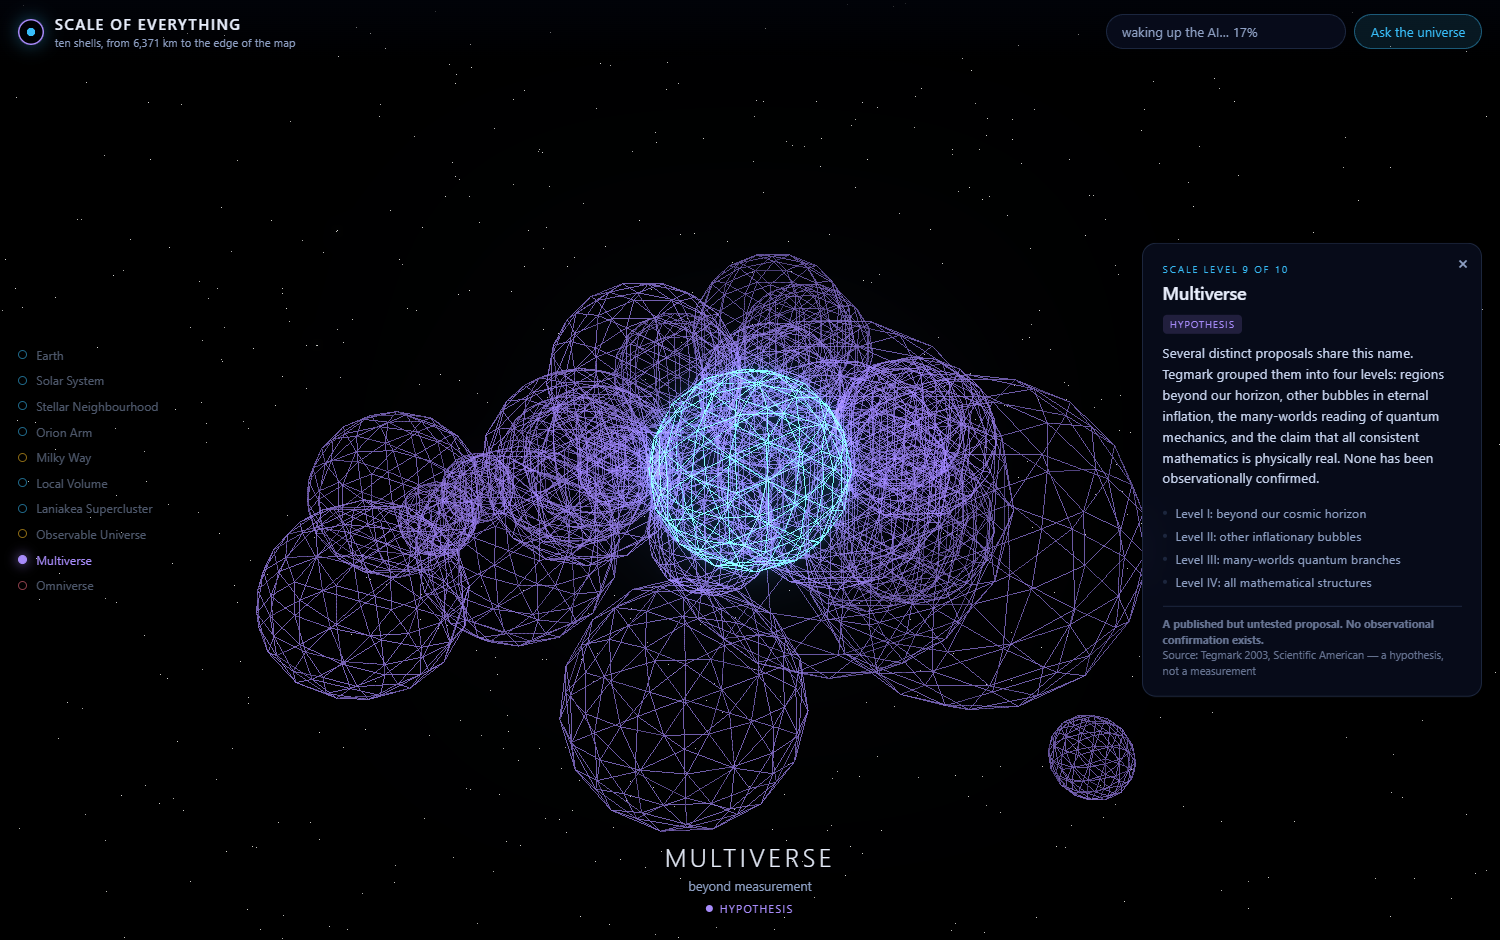
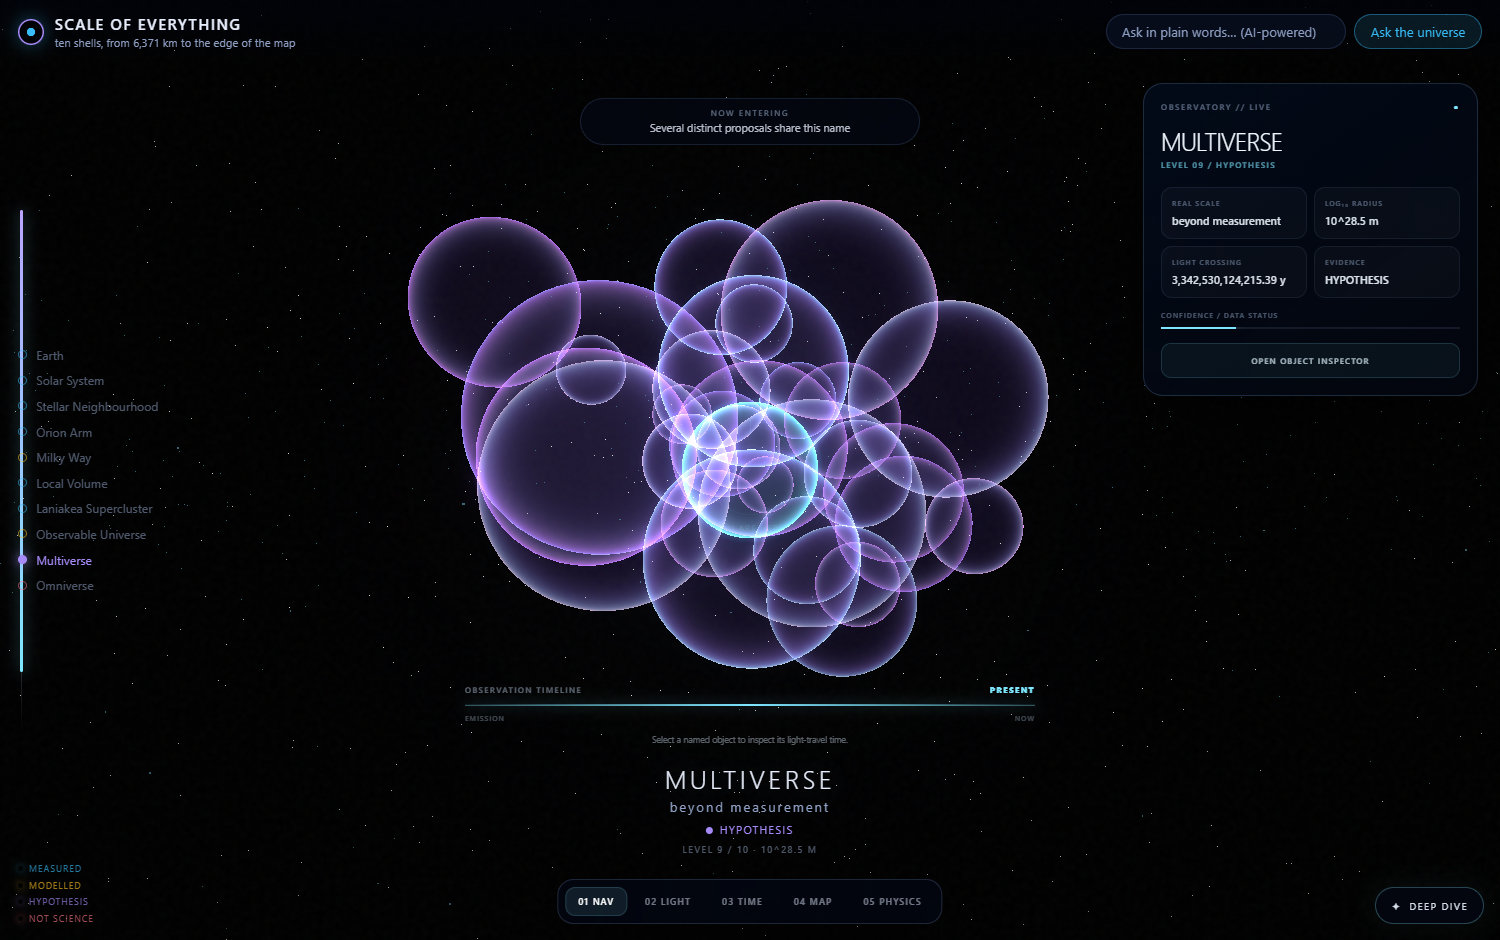
Multiverse rung becomes a foam of soap-film bubbles
Wireframe icosahedra read as scattered debris, not as bubble universes.
Eternal inflation describes a foam that nucleates, inflates and touches, so the
shell is now a foam: 30 thin films with a Fresnel rim, which is why a real
bubble is nearly invisible face on and bright at a grazing angle, plus a colour
walk with incidence standing in for thin-film interference. Placement rejects
positions that do not touch a bubble already placed or that sit half inside one,
so they meet the way soap cells do rather than floating apart.

Still honestly speculative: nothing solid, no surface, no detail that could be
mistaken for an image of anything, hypothesis violet kept, ours lit cyan.

A ShaderMaterial ignores material.opacity, so the level crossfade drives the
film's own uFade uniform instead of going through fadeable().

New tools/verify_shells.py, 7 assertions: the films are not wireframes, exactly
one bubble is ours, the tints are right, at least 80 percent of bubbles touch a
neighbour (30/30 in practice), the crossfade reaches the uniform, the omniverse
stays an empty frame, no console errors. Layout regression 0 failures.

docs/multiverse.png regenerated and docs/earth.png added.

diff --git a/src/stages.js b/src/stages.js
@@ -276,40 +276,122 @@ export function createMilkyWay(unitRadius) {
 
 // ------------------------------------------------- speculative shells
 
-// Rendered deliberately unlike every measured level: wireframe, cool violet,
-// nothing solid. A viewer should be able to tell at a glance that the ground
-// has changed from observation to proposal.
+// Eternal inflation describes a foam of bubbles that nucleate, inflate and
+// touch, so this shell is a foam: thin soap-film shells, nothing solid, no
+// surface, no detail that could be mistaken for an image of anything. It keeps
+// the hypothesis violet and ours is the one lit cyan. A film you can see
+// straight through is still plainly not a photograph, but a bubble universe
+// should at least look like a bubble.
+const BUBBLE_VERT = [
+  'varying vec3 vN;',
+  'varying vec3 vV;',
+  'void main() {',
+  '  vec4 wp = modelMatrix * vec4(position, 1.0);',
+  '  vN = normalize(mat3(modelMatrix) * normal);',
+  '  vV = normalize(cameraPosition - wp.xyz);',
+  '  gl_Position = projectionMatrix * viewMatrix * wp;',
+  '}',
+].join('\n');
+
+// The rim term is Fresnel: a soap film is nearly invisible face on and bright
+// at a grazing angle, which is what makes a bubble read as a bubble. The colour
+// walk with incidence is thin-film interference, the reason a real bubble is
+// iridescent.
+const BUBBLE_FRAG = [
+  'uniform vec3 uTint;',
+  'uniform float uBase;',
+  'uniform float uFade;',
+  'uniform float uTime;',
+  'uniform float uSeed;',
+  'varying vec3 vN;',
+  'varying vec3 vV;',
+  'void main() {',
+  '  float f = 1.0 - abs(dot(normalize(vN), normalize(vV)));',
+  '  float rim = pow(f, 3.0);',
+  '  float p = f * 6.2831 + uTime * 0.22 + uSeed;',
+  '  vec3 film = 0.5 + 0.5 * cos(p + vec3(0.0, 2.094, 4.188));',
+  '  vec3 col = mix(uTint, film, 0.4 * rim);',
+  '  float a = (0.03 + rim * 0.9) * uBase * uFade;',
+  '  gl_FragColor = vec4(col * (0.3 + rim), a);',
+  '}',
+].join('\n');
+
+// Bubbles in a foam touch. A position is drawn until it lands in contact with a
+// bubble already placed without being swallowed inside it, so the shell reads as
+// a foam rather than as scattered marbles.
+function foamPositions(R, radii) {
+  const out = [new THREE.Vector3(0, 0, 0)];
+  for (let i = 1; i < radii.length; i++) {
+    let best = null;
+    for (let attempt = 0; attempt < 240; attempt++) {
+      const u = Math.random() * 2 - 1;
+      const phi = Math.random() * Math.PI * 2;
+      const rr = R * (0.2 + Math.random() * 0.7);
+      const sxz = Math.sqrt(1 - u * u);
+      const cand = new THREE.Vector3(rr * sxz * Math.cos(phi), rr * u * 0.55,
+                                     rr * sxz * Math.sin(phi));
+      let touches = false, buried = false;
+      for (let j = 0; j < out.length; j++) {
+        const sum = radii[i] + radii[j];
+        const d = cand.distanceTo(out[j]);
+        if (d < sum) touches = true;
+        if (d < sum * 0.5) buried = true;
+      }
+      if (buried) continue;
+      if (touches) { best = cand; break; }
+      if (!best) best = cand;
+    }
+    out.push(best || new THREE.Vector3(R * 0.5, 0, 0));
+  }
+  return out;
+}
+
 export function createMultiverse(unitRadius) {
   const group = new THREE.Group();
-  const mats = [];
   const R = unitRadius;
 
+  const N = 30;
+  const radii = [];
+  for (let i = 0; i < N; i++) {
+    radii.push(R * (i === 0 ? 0.13 : 0.06 + Math.random() * 0.15));
+  }
+  const pos = foamPositions(R, radii);
+
   const bubbles = [];
-  for (let i = 0; i < 26; i++) {
-    const r = R * (0.06 + Math.random() * 0.15);
-    const geo = new THREE.IcosahedronGeometry(r, 2);
-    const mat = new THREE.MeshBasicMaterial({
-      color: i === 0 ? 0x7ef0ff : 0xa78bfa,
-      wireframe: true, transparent: true,
-      opacity: i === 0 ? 0.55 : 0.14 + Math.random() * 0.13,
+  const films = [];
+  for (let i = 0; i < N; i++) {
+    const mat = new THREE.ShaderMaterial({
+      vertexShader: BUBBLE_VERT,
+      fragmentShader: BUBBLE_FRAG,
+      uniforms: {
+        uTint: { value: new THREE.Color(i === 0 ? 0x7ef0ff : 0xa78bfa) },
+        uBase: { value: i === 0 ? 1.0 : 0.42 + Math.random() * 0.34 },
+        uFade: { value: 1 },
+        uTime: { value: 0 },
+        uSeed: { value: Math.random() * 6.2831 },
+      },
+      transparent: true,
+      depthWrite: false,
+      side: THREE.DoubleSide,
+      blending: THREE.AdditiveBlending,
     });
-    const m = new THREE.Mesh(geo, mat);
-    const u = Math.random() * 2 - 1;
-    const phi = Math.random() * Math.PI * 2;
-    const rr = R * (0.25 + Math.random() * 0.72);
-    const s = Math.sqrt(1 - u * u);
-    if (i === 0) m.position.set(0, 0, 0);
-    else m.position.set(rr * s * Math.cos(phi), rr * u * 0.5, rr * s * Math.sin(phi));
+    const m = new THREE.Mesh(new THREE.SphereGeometry(radii[i], 48, 32), mat);
+    m.position.copy(pos[i]);
     m.userData = { kind: i === 0 ? 'our-universe' : 'bubble', index: i };
     group.add(m);
-    mats.push(mat);
-    bubbles.push({ mesh: m, spin: (Math.random() - 0.5) * 0.1 });
+    films.push(mat);
+    bubbles.push({ mesh: m, spin: (Math.random() - 0.5) * 0.06 });
   }
 
   return {
     group, bubbles,
-    update(t, dt) { bubbles.forEach((b) => { b.mesh.rotation.y += dt * b.spin; }); },
-    setOpacity: fadeable(mats),
+    update(t, dt) {
+      films.forEach((m) => { m.uniforms.uTime.value = t; });
+      bubbles.forEach((b) => { b.mesh.rotation.y += dt * b.spin; });
+    },
+    // A ShaderMaterial ignores material.opacity, so the level crossfade drives
+    // the film's own uniform instead of going through fadeable().
+    setOpacity(a) { films.forEach((m) => { m.uniforms.uFade.value = a; }); },
   };
 }
 

diff --git a/tools/verify_shells.py b/tools/verify_shells.py
@@ -1,0 +1,88 @@
+"""Checks the two speculative shells: the multiverse is a foam of soap films in
+contact rather than scattered wireframes, ours is the one distinct bubble, the
+crossfade reaches zero, and the omniverse stays an empty dashed box."""
+import asyncio, os
+from playwright.async_api import async_playwright
+
+CHROME = os.environ.get("SOE_CHROME") or None
+ARGS = ["--use-gl=angle", "--use-angle=swiftshader", "--enable-unsafe-swiftshader", "--no-sandbox"]
+URL = "http://127.0.0.1:8080/"
+fails = []
+
+
+def ck(name, cond, extra=""):
+    print(("PASS " if cond else "FAIL ") + name + ("  " + str(extra) if extra else ""))
+    if not cond:
+        fails.append(name)
+
+
+async def main():
+    async with async_playwright() as pw:
+        b = await pw.chromium.launch(executable_path=CHROME, args=ARGS)
+        pg = await b.new_page(viewport={"width": 1440, "height": 900})
+        errs = []
+        pg.on("console", lambda m: errs.append(m.text) if m.type == "error" else None)
+        pg.on("pageerror", lambda e: errs.append(str(e)))
+        await pg.goto(URL, wait_until="load")
+        await pg.wait_for_function("window.SOE && window.SOE.shells", timeout=90000)
+        await pg.evaluate("window.SOE.goTo(8)")
+        await pg.wait_for_timeout(1200)
+
+        m = await pg.evaluate("""() => {
+          const s = window.SOE.shells[8];
+          const films = s.bubbles.map(x => x.mesh);
+          const kinds = films.map(x => x.userData.kind);
+          // A bubble counts as in contact when a neighbour's surface is within
+          // the sum of the radii but not half inside it.
+          let touching = 0;
+          for (let i = 0; i < films.length; i++) {
+            const ri = films[i].geometry.parameters.radius;
+            let hit = false;
+            for (let j = 0; j < films.length; j++) {
+              if (i === j) continue;
+              const rj = films[j].geometry.parameters.radius;
+              const d = films[i].position.distanceTo(films[j].position);
+              if (d < ri + rj && d >= (ri + rj) * 0.5) hit = true;
+            }
+            if (hit) touching++;
+          }
+          return {
+            n: films.length,
+            shaders: films.filter(x => x.material.type === 'ShaderMaterial').length,
+            wireframe: films.filter(x => x.material.wireframe).length,
+            ours: kinds.filter(k => k === 'our-universe').length,
+            touching,
+            tints: films.map(x => x.material.uniforms.uTint.value.getHexString()),
+          };
+        }""")
+        ck("multiverse is a foam of soap films, not wireframes",
+           m["shaders"] == m["n"] and m["wireframe"] == 0, m)
+        ck("exactly one bubble is ours", m["ours"] == 1)
+        ck("ours is the cyan one, the rest hypothesis violet",
+           m["tints"][0] == "7ef0ff" and set(m["tints"][1:]) == {"a78bfa"})
+        ck("most bubbles touch a neighbour, as a foam does",
+           m["touching"] >= m["n"] * 0.8, str(m["touching"]) + "/" + str(m["n"]))
+
+        # The films carry their own opacity uniform; if the crossfade did not
+        # reach it the shell would never leave the screen.
+        await pg.evaluate("window.SOE.shells[8].setOpacity(0)")
+        faded = await pg.evaluate(
+            "window.SOE.shells[8].bubbles.every(b => b.mesh.material.uniforms.uFade.value === 0)")
+        ck("the level crossfade drives the film uniform", faded)
+
+        await pg.evaluate("window.SOE.goTo(9)")
+        await pg.wait_for_timeout(1200)
+        omni = await pg.evaluate("""() => {
+          const s = window.SOE.shells[9]; let meshes = 0, lines = 0;
+          s.group.traverse(o => { if (o.isMesh) meshes++; else if (o.isLine || o.isLineSegments) lines++; });
+          return {meshes, lines};
+        }""")
+        ck("omniverse stays an empty frame, nothing solid inside",
+           omni["meshes"] == 0 and omni["lines"] >= 6, omni)
+        ck("no console errors", not errs, errs)
+        await b.close()
+    print("FAILURES:", len(fails), fails)
+    raise SystemExit(1 if fails else 0)
+
+
+asyncio.run(main())

diff --git a/README.md b/README.md
@@ -45,10 +45,18 @@ Virgo concentration in gold at centre, filaments radiating outward.
 ![Laniakea Supercluster](docs/laniakea.png)
 
 Level 9 — the Multiverse, drawn in a deliberately different visual language.
-Wireframe and violet, with our own universe in cyan. You can tell at a glance
-that the ground has changed from observation to proposal.
+Eternal inflation describes a foam of bubbles that nucleate, inflate and touch,
+so this shell is a foam: thin soap films in the hypothesis violet with our own
+universe lit cyan. Nothing solid, no surface, no detail that could be mistaken
+for an image of anything. You can tell at a glance that the ground has changed
+from observation to proposal.
 
 ![Multiverse](docs/multiverse.png)
+
+Level 1 — Earth, wearing the same measured surface, cloud and night-lights
+maps as the planet one rung out, with the Karman line to scale.
+
+![Earth](docs/earth.png)
 
 ## The ten shells
 
@@ -62,7 +70,7 @@ that the ground has changed from observation to proposal.
 | 6 | Local Group | 1.5 Mpc | measured | real galaxies |
 | 7 | Laniakea Supercluster | 80 Mpc | measured | real galaxies |
 | 8 | Observable Universe | 520 Mpc surveyed | **modelled** beyond survey depth | 17,669 real galaxies |
-| 9 | Multiverse | beyond measurement | **hypothesis** | schematic |
+| 9 | Multiverse | beyond measurement | **hypothesis** | a foam of soap-film bubbles, schematic |
 | 10 | Omniverse | undefined | **not science** | an empty box, deliberately |
 
 ## Why the Milky Way is the one galaxy that had to be faked
